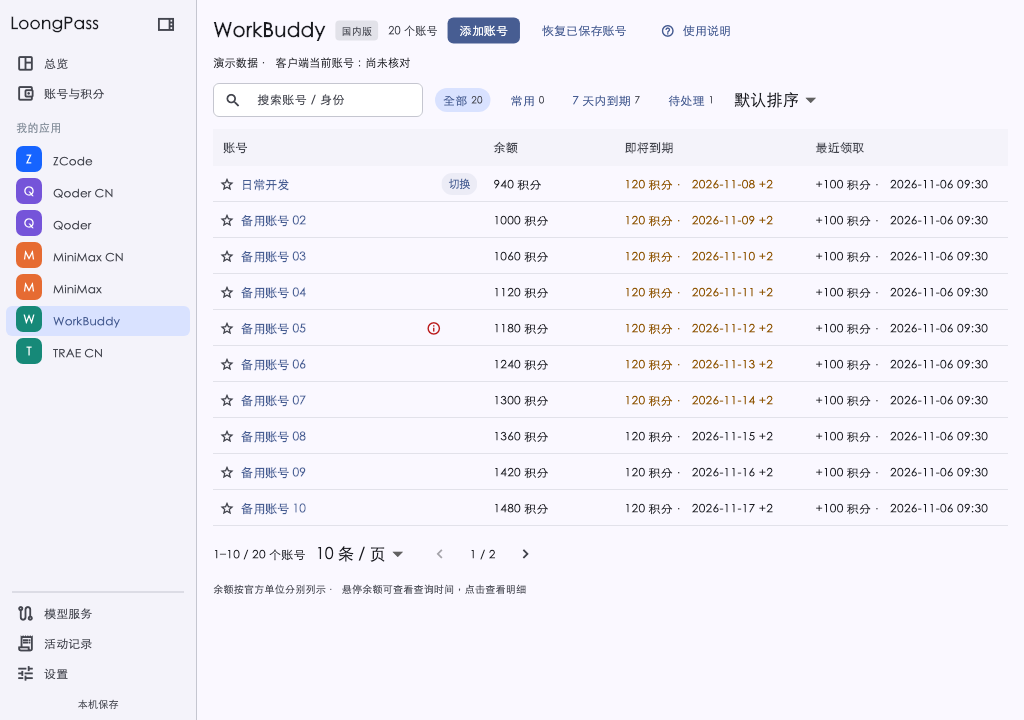
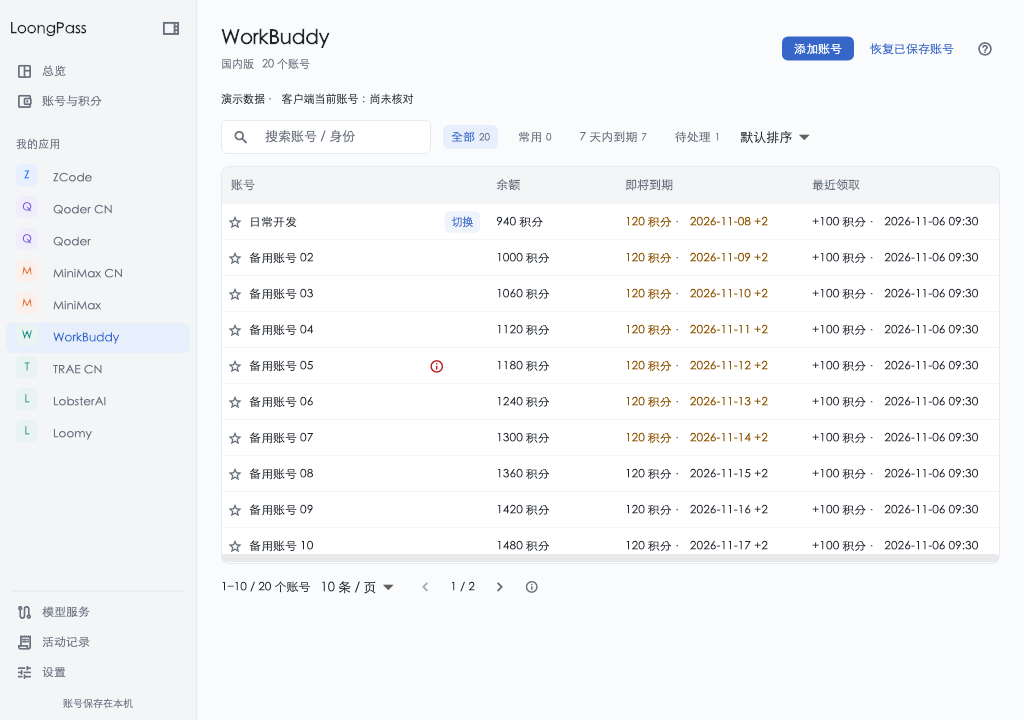
Preserve skipped update versions in Windows automatic downloads

diff --git a/tool/patch_winsparkle.py b/tool/patch_winsparkle.py
@@ -1,0 +1,102 @@
+"""Minimal WinSparkle extension: automatic installation with upstream skip policy.
+
+Only the exact pinned source or this script's exact patched result is accepted.
+The update checker retains OneShotUpdateChecker's feed, download and skip logic.
+"""
+import argparse
+import hashlib
+from pathlib import Path
+
+UPSTREAM_COMMIT = "a8986caf620262f7d4581b241436ceaa0cc9370f"
+
+PATCHES = {
+    "src/updatechecker.h": (
[1 lines of base64/hex data omitted]
+        "\n\n} // namespace winsparkle",
+        """
+// LoongPass extension: retain the automatic checker's SkipThisVersion policy.
+class AutomaticInstallUpdateChecker : public OneShotUpdateChecker
+{
+protected:
+    bool ShouldAutomaticallyInstall() const override { return true; }
+};
+""",
+    ),
+    "src/dll_api.cpp": (
[1 lines of base64/hex data omitted]
+        "WIN_SPARKLE_API void __cdecl win_sparkle_set_user_run_installer_callback",
+        """// LoongPass extension: background check with upstream automatic skip policy.
+WIN_SPARKLE_API void __cdecl win_sparkle_check_update_without_ui_and_install()
+{
+    try
+    {
+        UpdateChecker *check = new AutomaticInstallUpdateChecker();
+        check->Start();
+    }
+    CATCH_ALL_EXCEPTIONS
+}
+
+""",
+    ),
+    "include/winsparkle.h": (
[1 lines of base64/hex data omitted]
+        "WIN_SPARKLE_API void __cdecl win_sparkle_check_update_without_ui();",
+        """/**
+    LoongPass extension: check in the background and install available updates.
+    Respects the user's SkipThisVersion choice. No checking UI is displayed;
+    upstream download, signature verification and installation UI are retained.
+*/
+WIN_SPARKLE_API void __cdecl win_sparkle_check_update_without_ui_and_install();
+
+""",
+    ),
+}
+
+
+def patch_tree(root):
+    prepared = {}
+    states = set()
+    for name, (digest, anchor, addition) in PATCHES.items():
+        path = root / name
+        content = path.read_bytes()
+        extra = addition.encode()
+        original = content
+        patched = content.count(extra) == 1
+        if patched:
+            original = content.replace(extra, b"", 1)
+        if hashlib.sha256(original).hexdigest() != digest:
+            raise ValueError(f"Pinned WinSparkle source drift: {name}")
+        marker = anchor.encode()
+        if original.count(marker) != 1:
+            raise ValueError(f"Ambiguous patch context: {name}")
+        result = original.replace(marker, extra + marker, 1)
+        if patched and result != content:
+            raise ValueError(f"Unexpected patch location: {name}")
+        prepared[path] = result
+        states.add(patched)
+    if len(states) != 1:
+        raise ValueError("Partially patched WinSparkle tree; use a fresh pinned checkout")
+    if True in states:
+        return False
+    # Validate the entire patch before changing any source file.
+    for path, result in prepared.items():
+        path.write_bytes(result)
+    return True
+
+
+def main():
+    parser = argparse.ArgumentParser(description=__doc__)
+    parser.add_argument("source", type=Path, nargs="?")
+    parser.add_argument("--upstream-commit", action="store_true")
+    args = parser.parse_args()
+    if args.upstream_commit:
+        print(UPSTREAM_COMMIT)
+        return
+    if args.source is None:
+        parser.error("source directory is required")
+    changed = patch_tree(args.source)
+    print("Applied WinSparkle automatic-install extension" if changed else "WinSparkle extension already applied")
+
+
+if __name__ == "__main__":
+    main()

diff --git a/test/winsparkle_patch_test.py b/test/winsparkle_patch_test.py
@@ -1,0 +1,78 @@
+"""Check the patch against a local pinned upstream tree, without building Windows.
+
+Usage: python test/winsparkle_patch_test.py --source PATH
+The tree is read-only; each check uses an automatically removed temporary copy.
+"""
+import argparse
+from pathlib import Path
+import shutil
+import subprocess
+import sys
+import tempfile
+import unittest
+
+PATCH = Path(__file__).resolve().parents[1] / "tool/patch_winsparkle.py"
+FILES = ("src/updatechecker.h", "src/dll_api.cpp", "include/winsparkle.h")
+SOURCE = None
+
+
+class PatchChecks(unittest.TestCase):
+    def setUp(self):
+        self.scratch = tempfile.TemporaryDirectory(prefix="loongpass-sdk-check-")
+        self.addCleanup(self.scratch.cleanup)
+        self.root = Path(self.scratch.name)
+        for name in FILES:
+            target = self.root / name
+            target.parent.mkdir(parents=True, exist_ok=True)
+            shutil.copyfile(SOURCE / name, target)
+
+    def run_patch(self):
+        return subprocess.run([sys.executable, str(PATCH), str(self.root)],
+                              capture_output=True, text=True)
+
+    def snapshot(self):
+        return {name: (self.root / name).read_bytes() for name in FILES}
+
+    def test_applies_once_and_repeated_execution_preserves_bytes(self):
+        original = self.snapshot()
+        result = self.run_patch()
+        self.assertEqual(result.returncode, 0, result.stderr)
+        patched = self.snapshot()
+        self.assertTrue(all(patched[name] != original[name] for name in FILES))
+        checker = patched["src/updatechecker.h"].decode()
+        added = checker.split("class AutomaticInstallUpdateChecker", 1)[1].split("};", 1)[0]
+        self.assertIn(": public OneShotUpdateChecker", added)
+        self.assertIn("ShouldAutomaticallyInstall() const override { return true; }", added)
+        self.assertNotIn("ShouldSkipUpdate", added)
+        api = patched["src/dll_api.cpp"].decode().split(
+            "void __cdecl win_sparkle_check_update_without_ui_and_install()", 1)[1].split("CATCH_ALL_EXCEPTIONS", 1)[0]
+        self.assertIn("new AutomaticInstallUpdateChecker()", api)
+        self.assertIn("check->Start();", api)
+        self.assertNotIn("ShowCheckingUpdates", api)
+        result = self.run_patch()
+        self.assertEqual(result.returncode, 0, result.stderr)
+        self.assertEqual(self.snapshot(), patched)
+
+    def test_drift_is_rejected_before_any_file_changes(self):
+        path = self.root / FILES[-1]
+        path.write_bytes(path.read_bytes() + b"\n// unexpected drift\n")
+        before = self.snapshot()
+        self.assertNotEqual(self.run_patch().returncode, 0)
+        self.assertEqual(self.snapshot(), before)
+
+    def test_partial_patch_is_rejected_without_repairing_other_files(self):
+        original = self.snapshot()
+        result = self.run_patch()
+        self.assertEqual(result.returncode, 0, result.stderr)
+        (self.root / FILES[-1]).write_bytes(original[FILES[-1]])
+        before = self.snapshot()
+        self.assertNotEqual(self.run_patch().returncode, 0)
+        self.assertEqual(self.snapshot(), before)
+
+
+if __name__ == "__main__":
+    parser = argparse.ArgumentParser(description=__doc__)
+    parser.add_argument("--source", type=Path, required=True)
+    args = parser.parse_args()
+    SOURCE = args.source
+    unittest.main(argv=[sys.argv[0]])

diff --git a/tool/windows_build_config.py b/tool/windows_build_config.py
@@ -1,13 +1,28 @@
 """Generate Windows build metadata from the existing release sources."""
 import json
+import hashlib
 from pathlib import Path
 import plistlib
 import sys
 from urllib.parse import urljoin
 
 from release_version import read_release_version
+from patch_winsparkle import UPSTREAM_COMMIT
 
 root = Path(__file__).resolve().parents[1]
+if len(sys.argv) > 2:
+    sdk = Path(sys.argv[2])
+    provenance = json.loads((sdk / 'provenance.json').read_text())
+    assert provenance['commit'] == UPSTREAM_COMMIT, 'Unexpected WinSparkle source'
+    assert provenance['platform'] == 'x64' and provenance['configuration'] == 'Release'
+    assert provenance['extension'] == 'win_sparkle_check_update_without_ui_and_install'
+    for field, name in [('patchSHA256', 'patch_winsparkle.py'), ('buildScriptSHA256', 'build_winsparkle.ps1')]:
+        assert provenance[field] == hashlib.sha256((root / 'tool' / name).read_bytes()).hexdigest(), 'Rebuild WinSparkle SDK for current inputs'
+    for name, digest in provenance['files'].items():
+        path = (sdk / name).resolve()
+        assert path.is_relative_to(sdk.resolve()), 'Invalid SDK provenance path'
+        assert hashlib.sha256(path.read_bytes()).hexdigest() == digest, 'WinSparkle SDK content mismatch'
+    assert {'include/winsparkle.h', 'x64/Release/WinSparkle.dll', 'x64/Release/WinSparkle.lib', 'COPYING'} <= provenance['files'].keys()
 release = read_release_version(root)
 info = plistlib.loads((root / "macos/Runner/Info.plist").read_bytes())
 values = {

diff --git a/windows/runner/native_updater.cpp b/windows/runner/native_updater.cpp
@@ -130,7 +130,7 @@ void NativeUpdater::Check(bool automatic) {
   }
   phase_ = Phase::checking;
   Publish();
-  if (automatic) win_sparkle_check_update_with_ui_and_install();
+  if (automatic) win_sparkle_check_update_without_ui_and_install();
   else win_sparkle_check_update_with_ui();
 }
 

diff --git a/RELEASE-NOTES.md b/RELEASE-NOTES.md
@@ -1,15 +1,18 @@
-LoongPass 1.0.0 beta 30：统一管理 AI 平台多账号、免费奖励和积分到期信息。
+LoongPass 1.0.0：统一管理 AI 平台多账号、免费奖励和积分到期信息。
 
-- 新增 ZCode 智谱 BigModel 官方授权、账号保存、活动发现、自动领取和余额到期查询。新账号优先使用未占用设备号，不足时自动生成一个 UUIDv4，成功授权后固定保存；保存重试和重新授权复用绑定，未知领取结果不会触发换号重领。
-- ZCode 领取遇到官方校验时，先执行官方 SDK 的自动验证；只有需要人工操作才显示验证窗口。beta 27 已实测自动验证及到账，包括单个新 UUID 与新账号的 500,000,000 tokens 权益；beta 29 自动分配耗尽分支由合成测试覆盖，尚未再次用新账号完成这一分支的真实授权。
-- 账号列表改为紧凑表格，支持搜索、筛选、分页、余额及最近到期批次、已确认领取记录。新增总览、全部账号、活动记录和设置；侧栏可折叠、调整平台顺序并保存偏好。
-- 应用更新改为两个独立选项：「自动检查并下载更新」和「接收 Beta 版更新」。Beta 默认关闭，关闭时仅接收正式版，开启时也接收测试版；手动检查同样遵循此选项，不会降级已安装版本。原先关闭自动下载的设置继续保持关闭。
-- macOS 原生更新器核验发布签名后安装并重启，保留账号和设置。beta 29 可直接通过应用内更新升级本版；更早版本首次需要手动安装。
-- 保留 WorkBuddy、MiniMax CN / MiniMax、Qoder CN / Qoder 和 TRAE CN 多账号管理。WorkBuddy 支持官方客户端切换；其他平台尚未支持客户端切换。各平台真实领取与到账证据不同，具体见验收记录。
-- 账号仍在本机私有目录中以明文保存，保留目录/文件权限、原子写入、唯一写入者和重复领取保护，不接入钥匙串。已有账号升级复用授权，无需重新登录。
+- 首次同时提供 macOS Universal、Windows x64 安装版和便携版。macOS 包包含 Apple Silicon 与 Intel 架构。
+- WorkBuddy、MiniMax 国内版与海外版、Qoder 国内版与海外版、TRAE 国内版、ZCode 智谱 BigModel 独立管理账号、授权、奖励与余额。ZCode 按官方活动资格领取，保留固定设备绑定与未知领取记录。
+- 紧凑账号工作区支持搜索、筛选、分页、常用账号、平台排序、浅深色和总览。
+- 更新设置提供「自动检查并下载更新」与「接收 Beta 版更新」两个独立选项，默认均关闭。关闭 Beta 时只接收正式版。原生更新器验证发布签名后安装，保留本机账号和设置。
+- macOS 支持 WorkBuddy 官方客户端账号切换，以及选择单个 MiniMax 国内版账号和模型，经 Magpie 接入 Claude Code 的文本、流式与工具请求。Windows 当前提供账号、奖励和积分管理。
+- macOS 新增 LobsterAI、Loomy 试验入口，真实授权与领取仍在验证。Loomy 按每日赠送池处理，避免重复补充已消耗额度。
 
-下载 LoongPass-macOS-universal.zip，解压后打开 LoongPass.app。支持 macOS 12 及以上，包含 Apple Silicon 和 Intel 架构；Intel 真机尚未验收。当前为本地签名，未做 Apple 公证，macOS 可能要求在“隐私与安全性”中确认打开。
+安装与升级
 
-自动任务仅在 LoongPass 运行期间执行。ZCode 每 10 分钟检查活动，其他平台每 15 分钟检查。活动是否开放、账号及设备是否具备资格均以官方响应为准；不能承诺每天都有活动。真实图形验证码、部分平台令牌轮换仍待验证，Qoder 普通附加积分缺失的到期明细显示未知。Magpie 目前只有状态说明入口，模型接入及积分路由尚未实现。
+macOS 下载 LoongPass-macOS-universal.zip，解压后将 LoongPass.app 放入应用程序目录。beta 29 及后续版本可通过应用内更新升级。Windows 日常使用选择 LoongPass-Windows-x64-Setup.exe，便携使用选择 LoongPass-Windows-x64.zip，完整解压后运行。两种 Windows 包共用当前用户的 AppData 账号目录。
 
-项目按 MIT 许可公开，源码及第三方许可随发布保留；安装包、编译库和账号数据不进入源码仓库。详细验收记录：https://github.com/SailingLoong/LoongPass/blob/main/VALIDATION.md
+应用目前使用 macOS 本地签名，尚未完成 Developer ID 公证；Windows 尚未配置 Authenticode 发布者签名。请从官网或本仓库 Release 下载并核对 SHA256SUMS。应用内更新另有 Ed25519 发布签名保护。
+
+授权数据以明文保存在本机私有目录，采用权限保护、唯一写入者、原子写入与重复领取保护。自动任务仅在应用运行期间执行。活动开放、账号设备资格及最终余额以各平台官方结果为准；官方缺少的到期明细显示未知。
+
+源码按 MIT 许可公开，保留第三方来源与声明。功能与设备验收范围见 https://github.com/SailingLoong/LoongPass/blob/main/VALIDATION.md 。

diff --git a/README.md b/README.md
@@ -104,7 +104,7 @@ macOS 可将已保存的 MiniMax 账号作为本机 Magpie 的模型来源。
 
 ## 从源码构建
 
-使用 Flutter 3.47.1 和锁定依赖。macOS 还需 Xcode 与仓库指定的 Rust 工具链，Windows 还需 Visual Studio 的 C++ 桌面开发工具、CMake 与 Python。
+使用 Flutter 3.47.1 和锁定依赖。macOS 还需 Xcode 与仓库指定的 Rust 工具链，Windows 还需 Visual Studio 2022 的 C++ 桌面开发工具、CMake、Python、NuGet CLI 与 PowerShell 7。
 
 ```bash
 flutter pub get --enforce-lockfile
@@ -116,11 +116,17 @@ Windows 构建与打包可在 PowerShell 执行。
 
 ```powershell
 flutter pub get --enforce-lockfile
+$env:WINSPARKLE_SDK = Join-Path $env:LOCALAPPDATA 'LoongPass-build-cache\WinSparkle'
+if (!(Test-Path $env:WINSPARKLE_SDK)) {
+  .\tool\build_winsparkle.ps1 -Destination $env:WINSPARKLE_SDK
+}
 flutter build windows --release
 .\tool\package_windows.ps1
 ```
 
 安装程序打包使用 Inno Setup 6。正式发布由 GitHub Actions 构建两个平台，检查通过后生成签名更新清单并发布 Release。
+
+WinSparkle SDK 从固定上游提交构建，附带最小的自动下载入口扩展，沿用上游的跳过版本与签名校验。构建输入和 SDK 文件均核对哈希，缓存只保留最终 SDK，编译中间目录完成后清理。
 
 ## 开源与致谢
 

diff --git a/THIRD_PARTY_NOTICES.md b/THIRD_PARTY_NOTICES.md
@@ -65,4 +65,8 @@ WINSPARKLE-LICENSE.txt, NLOHMANN-LICENSE.txt, and WEBVIEW2-LICENSE.txt. The Wind
 package includes the Microsoft Visual C++ runtime required by Flutter.
 
 WinSparkle source and SDK are available from https://github.com/vslavik/winsparkle.
+LoongPass builds commit a8986caf620262f7d4581b241436ceaa0cc9370f with the minimal
+automatic-install extension in tool/patch_winsparkle.py. It reuses the upstream
+automatic checker's skipped-version policy. The corresponding build instructions
+and SDK provenance are generated by tool/build_winsparkle.ps1.
 WebView2 documentation is available from https://learn.microsoft.com/microsoft-edge/webview2/.
